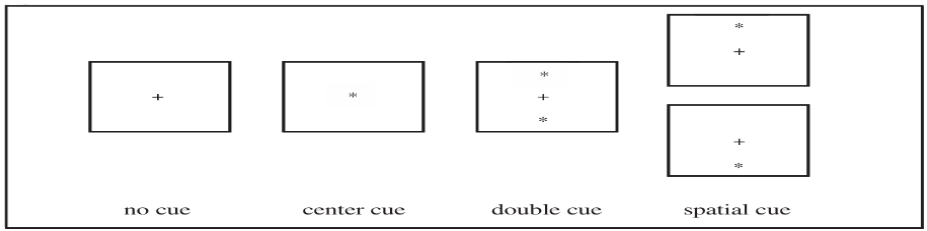
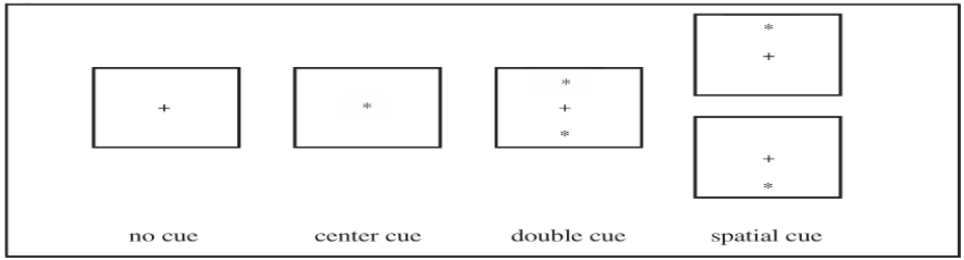
falla insercion pag CPT

diff --git a/generador_docx.py b/generador_docx.py
@@ -17,7 +17,7 @@ from docx import Document
 from docx.shared import Pt, Inches, RGBColor, Emu, Cm, Mm
 from docx.enum.table import WD_CELL_VERTICAL_ALIGNMENT
 from docx.enum.text import WD_PARAGRAPH_ALIGNMENT
-from docx.enum.section import WD_ORIENT
+from docx.enum.section import WD_ORIENT, WD_SECTION
 from docx.oxml import OxmlElement
 from docx.oxml.ns import qn
 from docx.shared import Inches, Pt, RGBColor
@@ -398,10 +398,12 @@ def crear_informe_docx(resultados, clasificaciones, nombre_caso="caso",
     # 2. DESCRIPCIÓN DE LA PRUEBA                                         #
     # ------------------------------------------------------------------ #
     _add_bold_paragraph(doc, PARRAFOS_FIJOS['titulo_general_prueba'])
+    doc.add_paragraph()  # Espacio
     doc.add_paragraph(PARRAFOS_FIJOS['objetivo_prueba'].format(**fmt))
 
     doc.add_paragraph()
     _add_bold_paragraph(doc, PARRAFOS_FIJOS['titulo_procedimiento'])
+    doc.add_paragraph()  # Espacio
     doc.add_paragraph(PARRAFOS_FIJOS['descripcion_procedimiento0'])
     doc.add_paragraph(PARRAFOS_FIJOS['descripcion_procedimiento1.1'])
     doc.add_paragraph(PARRAFOS_FIJOS['descripcion_procedimiento2.1'])
@@ -418,6 +420,7 @@ def crear_informe_docx(resultados, clasificaciones, nombre_caso="caso",
         parrafo_imagen_ant.alignment = WD_PARAGRAPH_ALIGNMENT.CENTER
         parrafo_imagen_ant.add_run().add_picture(imagen_ant, width=Inches(6))
 
+    doc.add_page_break()
     doc.add_paragraph(PARRAFOS_FIJOS['descripcion_procedimiento3.1'])
     imagen_ant = os.path.join(script_dir, 'imagenes', 'CPT estimulos.png')
     if _image_is_valid(imagen_ant):
@@ -426,7 +429,7 @@ def crear_informe_docx(resultados, clasificaciones, nombre_caso="caso",
         parrafo_imagen_ant.add_run().add_picture(imagen_ant, width=Inches(6))
 
     doc.add_paragraph(PARRAFOS_FIJOS['descripcion_procedimiento4.1'])
-    imagen_ant = os.path.join(script_dir, 'imagenes', 'FourFigures estimulos.png')
+    imagen_ant = os.path.join(script_dir, 'imagenes', 'NamingNumbers estimulos.png')
     if _image_is_valid(imagen_ant):
         parrafo_imagen_ant = doc.add_paragraph()
         parrafo_imagen_ant.alignment = WD_PARAGRAPH_ALIGNMENT.CENTER
@@ -437,12 +440,20 @@ def crear_informe_docx(resultados, clasificaciones, nombre_caso="caso",
 
     doc.add_page_break()
     _add_bold_paragraph(doc, PARRAFOS_FIJOS['titulo_indices'])
+    doc.add_paragraph()  # Espacio
     doc.add_paragraph(PARRAFOS_FIJOS['descripcion_indices'].format(**fmt))
 
     # ------------------------------------------------------------------ #
     # 3. RESULTADOS                                                        #
     # ------------------------------------------------------------------ #
-    doc.add_page_break()
+    resultados_section = doc.add_section(WD_SECTION.NEW_PAGE)
+    resultados_section.orientation = WD_ORIENT.LANDSCAPE
+    resultados_section.page_width = Mm(297)
+    resultados_section.page_height = Mm(210)
+    resultados_section.top_margin = Inches(0.5)
+    resultados_section.bottom_margin = Inches(0.5)
+    resultados_section.left_margin = Inches(0.5)
+    resultados_section.right_margin = Inches(0.5)
 
 
     titulo_resumen = doc.add_paragraph()
@@ -453,6 +464,8 @@ def crear_informe_docx(resultados, clasificaciones, nombre_caso="caso",
     doc.add_paragraph()  # Espacio
 
     doc.add_paragraph(PARRAFOS_FIJOS['texto_resultados'].format(**fmt))
+    doc.add_paragraph()
+    doc.add_paragraph()
 
     # ========================================================================
     # INSERTAR Tabla resultados
@@ -465,6 +478,14 @@ def crear_informe_docx(resultados, clasificaciones, nombre_caso="caso",
         available_tests,
     )
 
+    texto_resultados_section = doc.add_section(WD_SECTION.NEW_PAGE)
+    texto_resultados_section.orientation = WD_ORIENT.PORTRAIT
+    texto_resultados_section.page_width = Mm(210)
+    texto_resultados_section.page_height = Mm(297)
+    texto_resultados_section.top_margin = Inches(0.5)
+    texto_resultados_section.bottom_margin = Inches(0.5)
+    texto_resultados_section.left_margin = Inches(0.5)
+    texto_resultados_section.right_margin = Inches(0.5)
 
     _add_textual_results_sections(doc, resultados, clasificaciones, nombre)
 
@@ -1039,7 +1060,6 @@ def _add_textual_results_sections(doc, resultados, clasificaciones, nombre):
     def subtitulo(texto):
         _add_bold_paragraph(doc, texto)
 
-    doc.add_page_break()
     titulo_resultados_especificos = doc.add_paragraph()
     titulo_resultados_especificos.alignment = WD_PARAGRAPH_ALIGNMENT.CENTER
     run = titulo_resultados_especificos.add_run(

diff --git a/generador_pdf.py b/generador_pdf.py
@@ -122,7 +122,7 @@ def convertir_docx_a_pdf(ruta_docx, ruta_pdf=None):
 
 
 
-def crear_pdf_desde_imagen(ruta_imagen, ruta_pdf_salida):
+def crear_pdf_desde_imagen(ruta_imagen, ruta_pdf_salida, orientacion='vertical', rotacion=0):
     """
     Crea un PDF con una sola página conteniendo la imagen
     
@@ -139,13 +139,20 @@ def crear_pdf_desde_imagen(ruta_imagen, ruta_pdf_salida):
         img_width, img_height = img.size
         
         # Calcular el tamaño de página A4 en puntos (1 punto = 1/72 pulgadas)
-        page_width, page_height = A4
+        if orientacion == 'horizontal':
+            page_width, page_height = A4[1], A4[0]
+        else:
+            page_width, page_height = A4
         
         # Calcular la escala para ajustar la imagen a la página manteniendo proporción
         # Dejar un pequeño margen
         margen = 20
-        escala_ancho = (page_width - 2 * margen) / img_width
-        escala_alto = (page_height - 2 * margen) / img_height
+        if rotacion % 180:
+            escala_ancho = (page_width - 2 * margen) / img_height
+            escala_alto = (page_height - 2 * margen) / img_width
+        else:
+            escala_ancho = (page_width - 2 * margen) / img_width
+            escala_alto = (page_height - 2 * margen) / img_height
         escala = min(escala_ancho, escala_alto)
         
         # Dimensiones finales de la imagen
@@ -157,14 +164,26 @@ def crear_pdf_desde_imagen(ruta_imagen, ruta_pdf_salida):
         y = (page_height - final_height) / 2
         
         # Crear el PDF con la imagen
-        c = canvas.Canvas(ruta_pdf_salida, pagesize=A4)
-        c.drawImage(
-            ruta_imagen,
-            x, y,
-            width=final_width,
-            height=final_height,
-            preserveAspectRatio=True
-        )
+        c = canvas.Canvas(ruta_pdf_salida, pagesize=(page_width, page_height))
+        if rotacion % 360:
+            c.translate(page_width / 2, page_height / 2)
+            c.rotate(rotacion)
+            c.drawImage(
+                ruta_imagen,
+                -final_height / 2,
+                -final_width / 2,
+                width=final_width,
+                height=final_height,
+                preserveAspectRatio=True,
+            )
+        else:
+            c.drawImage(
+                ruta_imagen,
+                x, y,
+                width=final_width,
+                height=final_height,
+                preserveAspectRatio=True,
+            )
         c.showPage()
         c.save()
         
@@ -203,7 +222,12 @@ def insertar_imagen_en_pagina_3(ruta_pdf_original, ruta_imagen, ruta_pdf_salida)
         with tempfile.NamedTemporaryFile(suffix='.pdf', delete=False) as tmp_file:
             pdf_imagen_temp = tmp_file.name
         
-        if not crear_pdf_desde_imagen(ruta_imagen, pdf_imagen_temp):
+        if not crear_pdf_desde_imagen(
+            ruta_imagen,
+            pdf_imagen_temp,
+            orientacion='horizontal',
+            rotacion=0,
+        ):
             return False
         
         # Leer el PDF con la imagen
@@ -214,14 +238,18 @@ def insertar_imagen_en_pagina_3(ruta_pdf_original, ruta_imagen, ruta_pdf_salida)
         escritor = PdfWriter()
         
         # Copiar las primeras 9 páginas del PDF original.
-        for i in range(min(9, num_paginas)):  # Aquí se cambia inserción pág grafico_CPT
+        for i in range(min(9, num_paginas)):
             escritor.add_page(lector_original.pages[i])
         
-        # Insertar la página con la imagen (página 10).
+        # Aplicar -90 grados a la página completa. pypdf representa -90 como
+        # 270 y conserva la imagen centrada dentro de la página.
+        pagina_imagen.rotate(270)
+
+        # Insertar la página horizontal con la imagen (página 10).
         escritor.add_page(pagina_imagen)
         
         # Copiar el resto de las páginas originales (desde la página 10).
-        for i in range(9, num_paginas):      # También quí se cambia inserción pág grafico_CPT
+        for i in range(9, num_paginas):
             escritor.add_page(lector_original.pages[i])
         
         # Guardar el PDF final

diff --git a/textos.py b/textos.py
@@ -66,26 +66,26 @@ PARRAFOS_FIJOS = {
 
     'descripcion_indices': (
         " El desempeño conjunto en todas las tareas permite evaluar con gran consistencia todas las diferentes dimensiones de la atención. \n"
-        "• Arousal (grado de activación). Nesario para mantener un estado despierto y capacidad de atención consciente. "
+        "   • **Arousal (grado de activación)**. Nesario para mantener un estado despierto y capacidad de atención consciente. "
         "Mide el estado de vigilia o de activación/atención en general. \n"
-        "• Atención sostenida. Necesaria para mantener el rendimiento durante toda la duración de la "
+        "   • **Atención sostenida**. Necesaria para mantener el rendimiento durante toda la duración de la "
         "prueba. Mide la capacidad de la personar para mantenerse concentrado en una misma tarea a lo "
         "largo del tiempo. \n"
-        "• Atención selectiva. Requerida para distinguir estímulos señal de "
+        "   • **Atención selectiva**. Requerida para distinguir estímulos señal de "
         "distractores. Mide la capacidad de la persona para identificar y atender únicamente a la "
         "información relevante para la tarea, e ignorar la información distractora y engañosa. \n"
-        "• Control ejecutivo. Relacionado con el control voluntario y dirigido de la atención y la "
+        "   • **Control ejecutivo**. Relacionado con el control voluntario y dirigido de la atención y la "
         "conducta. Mide la capacidad de la persona para inhibir la información irrelevante y "
         "engañosa, y la emisión de respuestas controlas frente la impulsividad. \n"
-        "• Flexibilidad cognitiva. Relacionada con el cambio dinámico del foco atencional"
+        "   • **Flexibilidad cognitiva**. Relacionada con el cambio dinámico del foco atencional"
         "entre tareas. Mide la rapidez y eficacia con la que una persona es capaz de " 
         "adaptarse a cambios en las reglas que definen la tarea y conducta a desempeñar. \n"
-        "• Memoria operativa. Necesario para realizar un procesamiento y respuesta breves ante momentos "
+        "   • **Memoria operativa**. Necesario para realizar un procesamiento y respuesta breves ante momentos "
         "de gran cantidad de información y demanda cognitiva. Mide la cantidad de información que se puede "
         "mantener consciente y analizar simultáneamente. \n"
-        "• Velocidad de procesamiento. Necesario para entender una tarea y dar respuesta con la mayor rapidez posible. "
+        "   • **Velocidad de procesamiento**. Necesario para entender una tarea y dar respuesta con la mayor rapidez posible. "
         " Se refiere al tiempo que se necesita para percibir, procesar y responder a la información. \n"
-        "•   Preferencia o tendencia por un estilo atencional de distribución paralela de la atención o de "
+        "   • Preferencia o tendencia por un **estilo atencional** de distribución paralela de la atención o de "
         "cambio focal (switching atencional): \n"
         "1. "
         "Un estilo de distribución paralela de la atención. "
